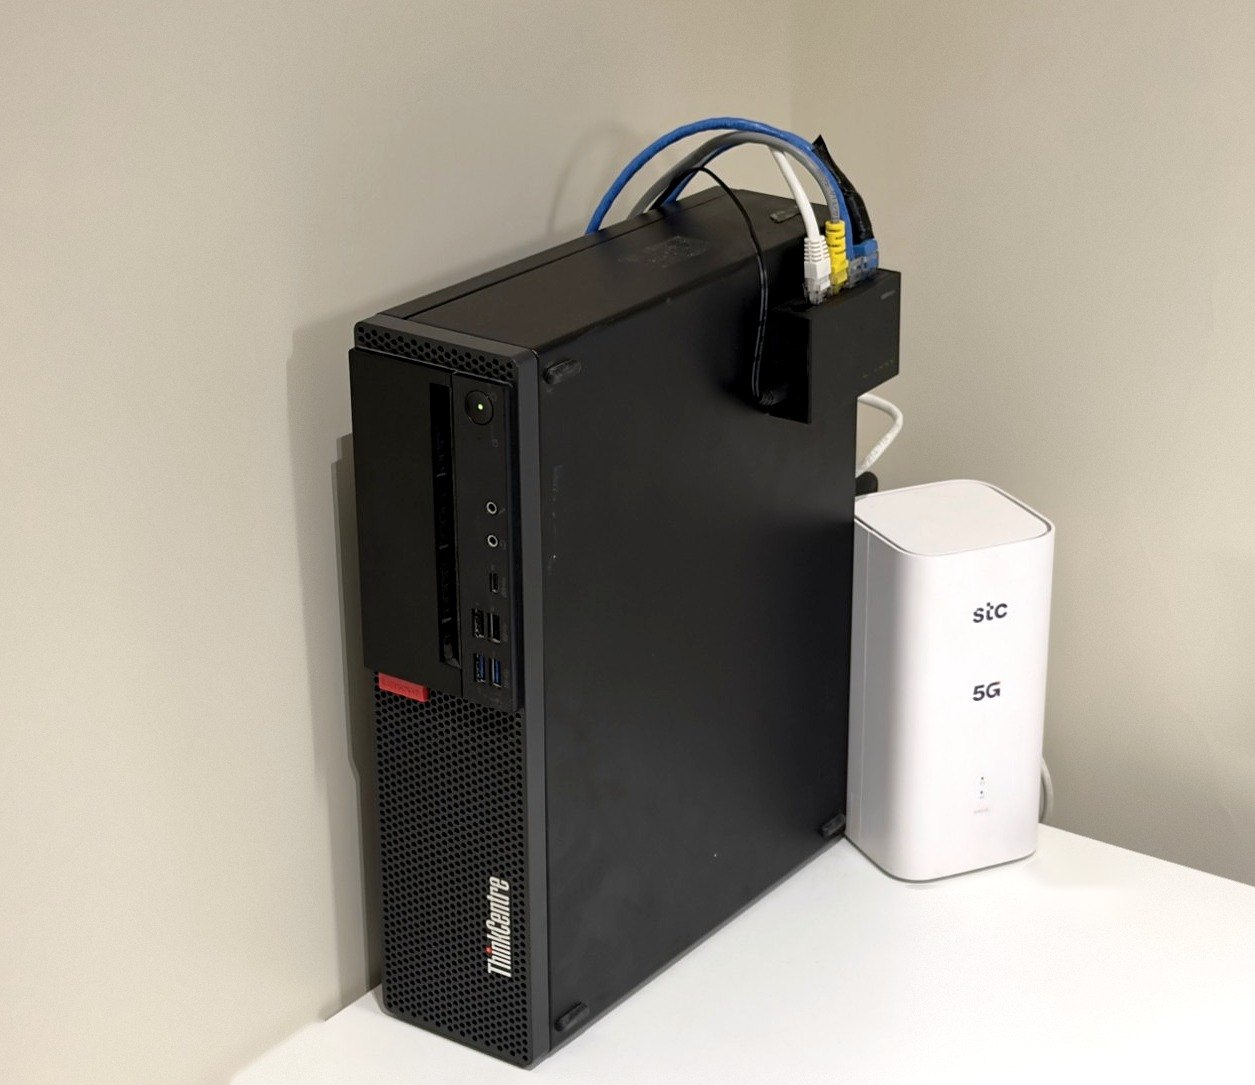
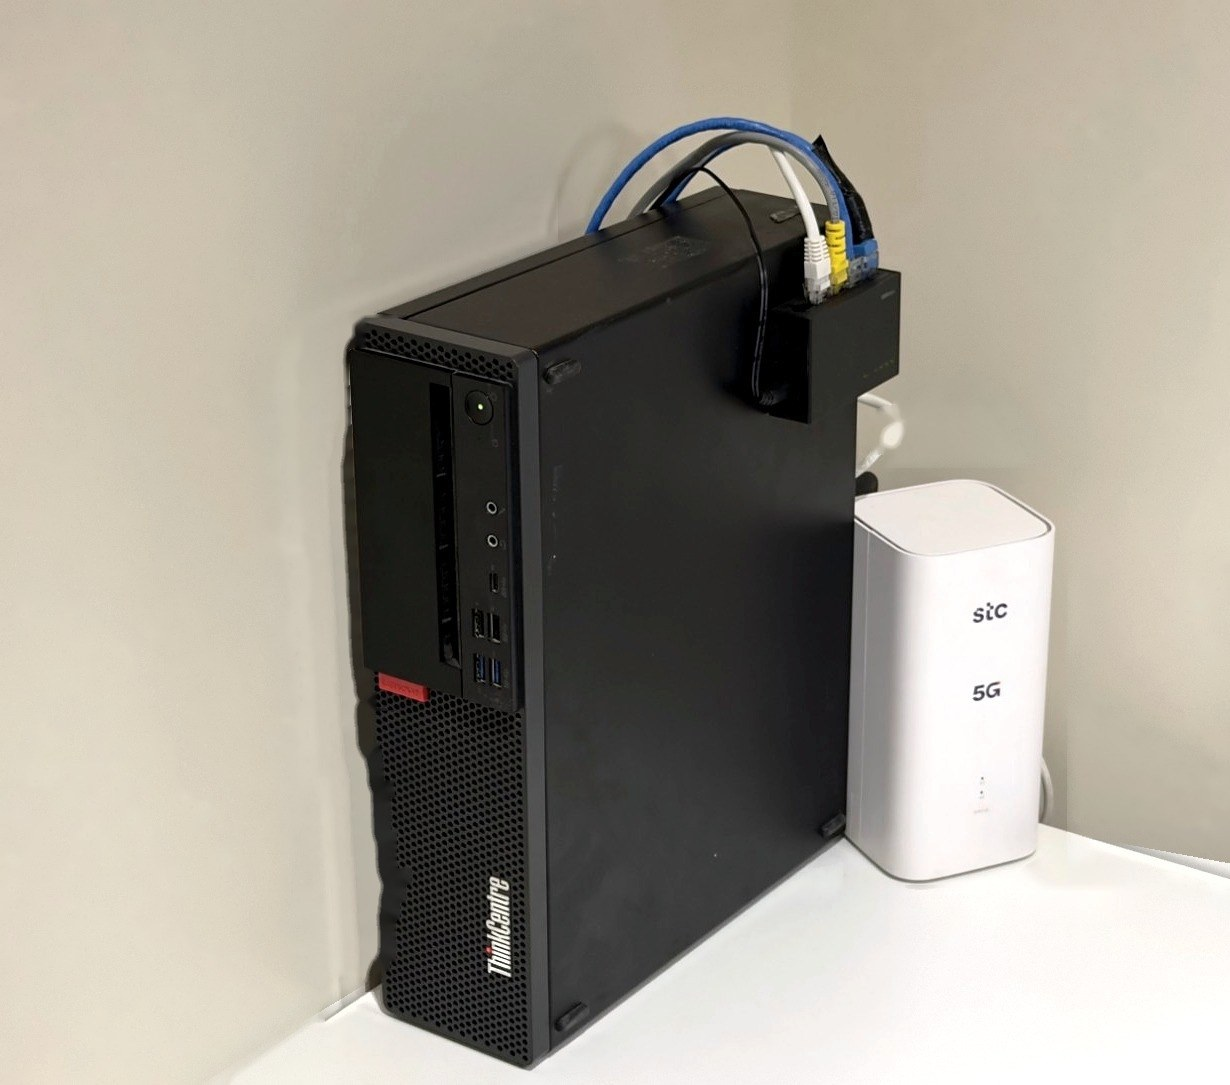
README: one cleaned-up photo of the server

Changed region(s): [[0.2163, 0.0912, 1.0, 1.0], [0.4634, 0.2737, 0.5252, 0.3041], [0.587, 0.8212, 0.6179, 0.8516]]

diff --git a/README.md b/README.md
@@ -5,8 +5,6 @@ reach the internet through a Cloudflare Tunnel, and the admin tools stay private
 
 <img src="docs/desk.jpg" width="820" alt="The server: a small black Lenovo ThinkCentre standing on a white desk next to a white 5G router, with network cables running into a switch mounted on its side.">
 
-<img src="docs/front.jpg" width="404" alt="The ThinkCentre from the front."> <img src="docs/side.jpg" width="404" alt="The ThinkCentre and the 5G router from the side.">
-
 Lenovo ThinkCentre · Intel i7-9700 · 16 GB RAM · 1 TB SSD · Ubuntu · on a 5G home connection
 
 <img src="docs/homelab.png" width="820" alt="Diagram: Cloudflare Tunnel for public web apps and Tailscale for private access, in front of a Docker host running apps I built (n3trunner.dev, Plate, ScamGuard, an AI assistant bot, Police Chase AI), game servers (Assetto Corsa, Minecraft), Immich with PostgreSQL and Redis, Jellyfin, and network tools (AdGuard Home, Nginx Proxy Manager, Uptime Kuma, n8n, Homepage)">
